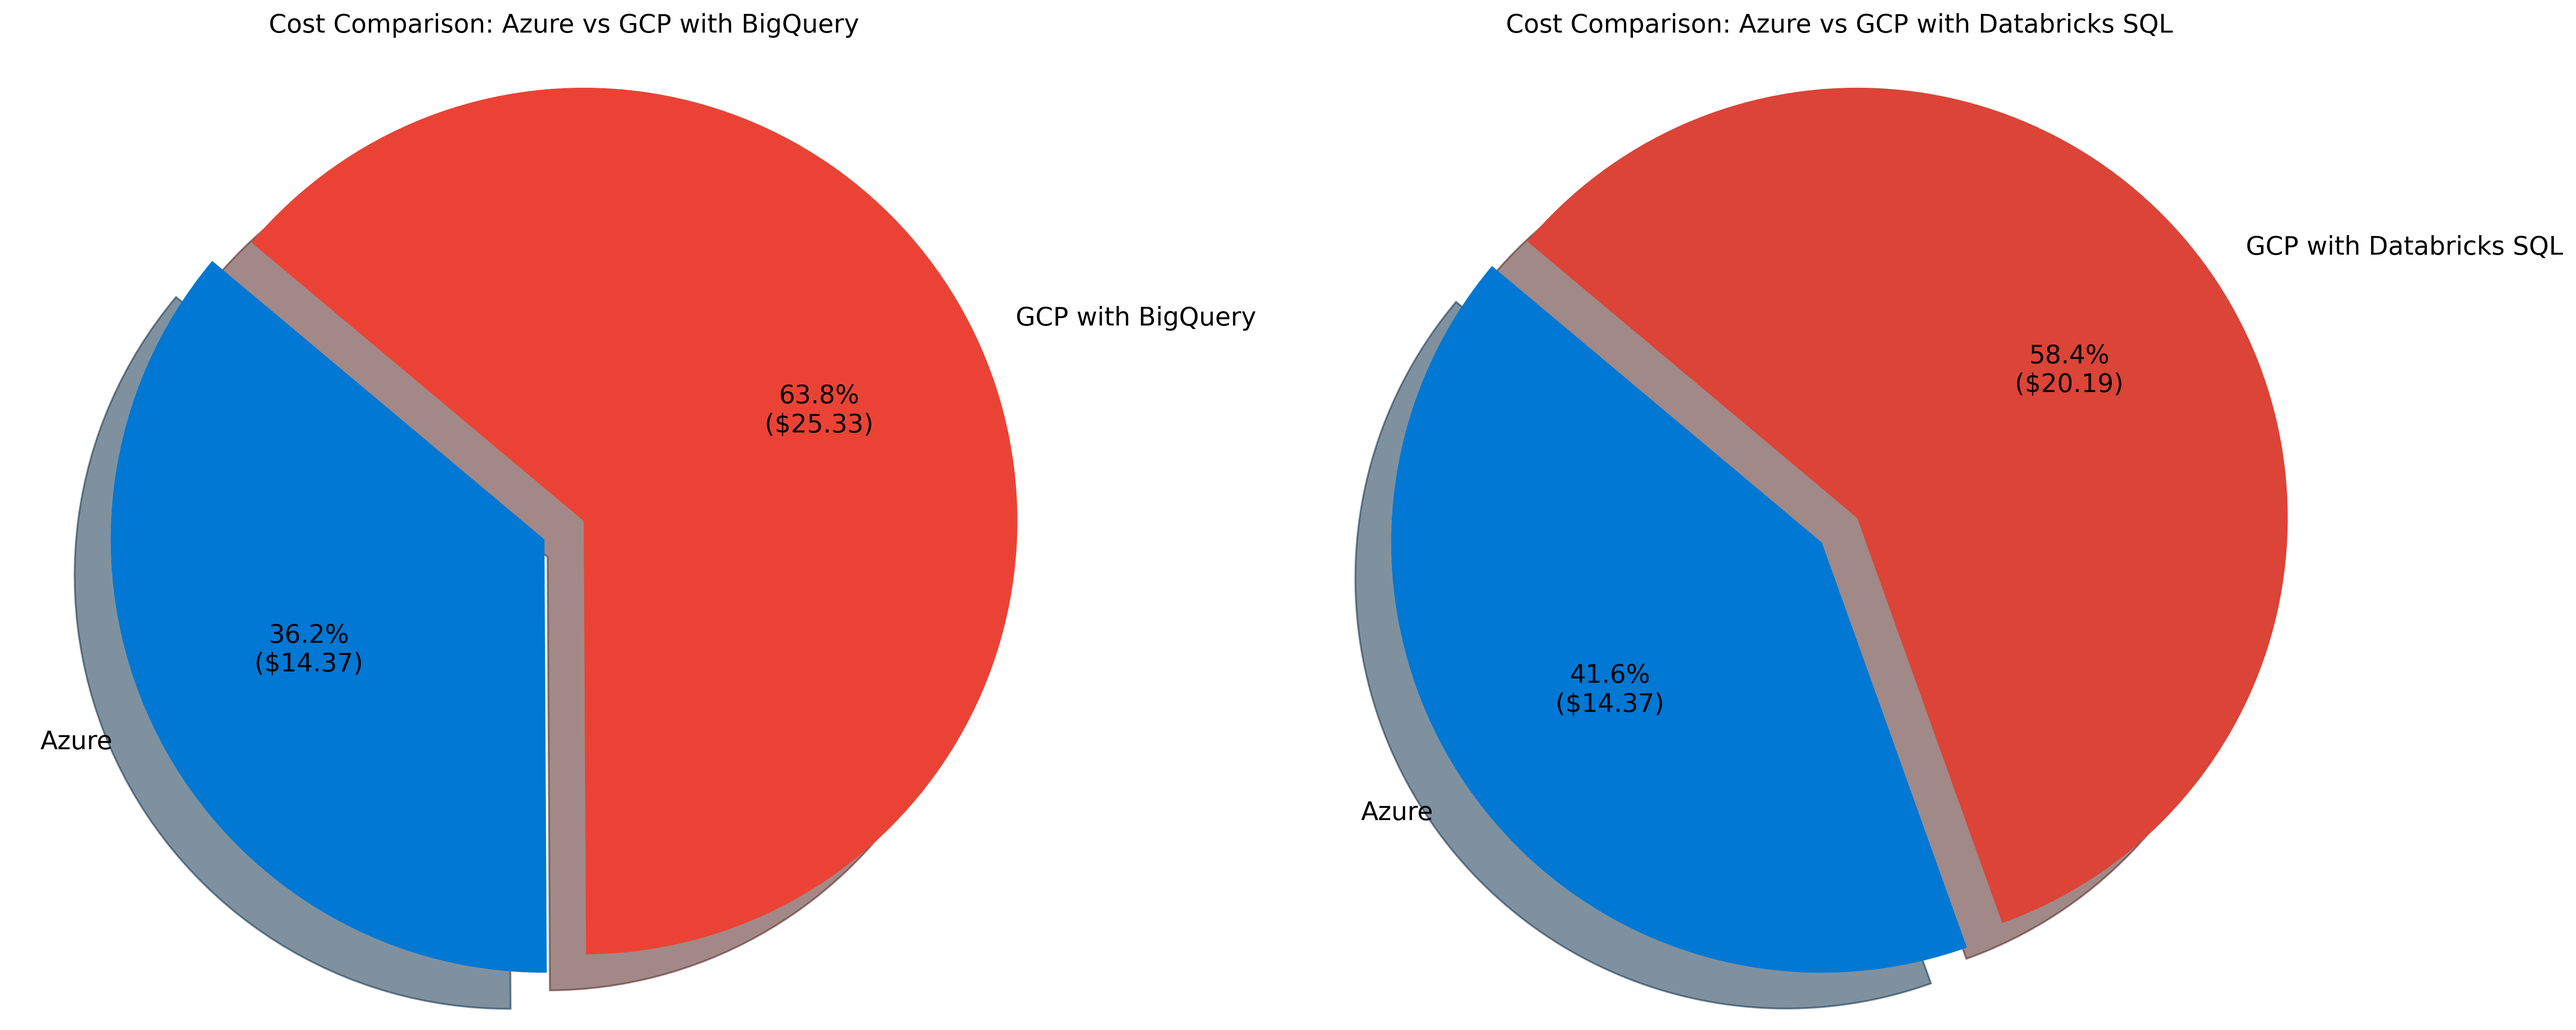
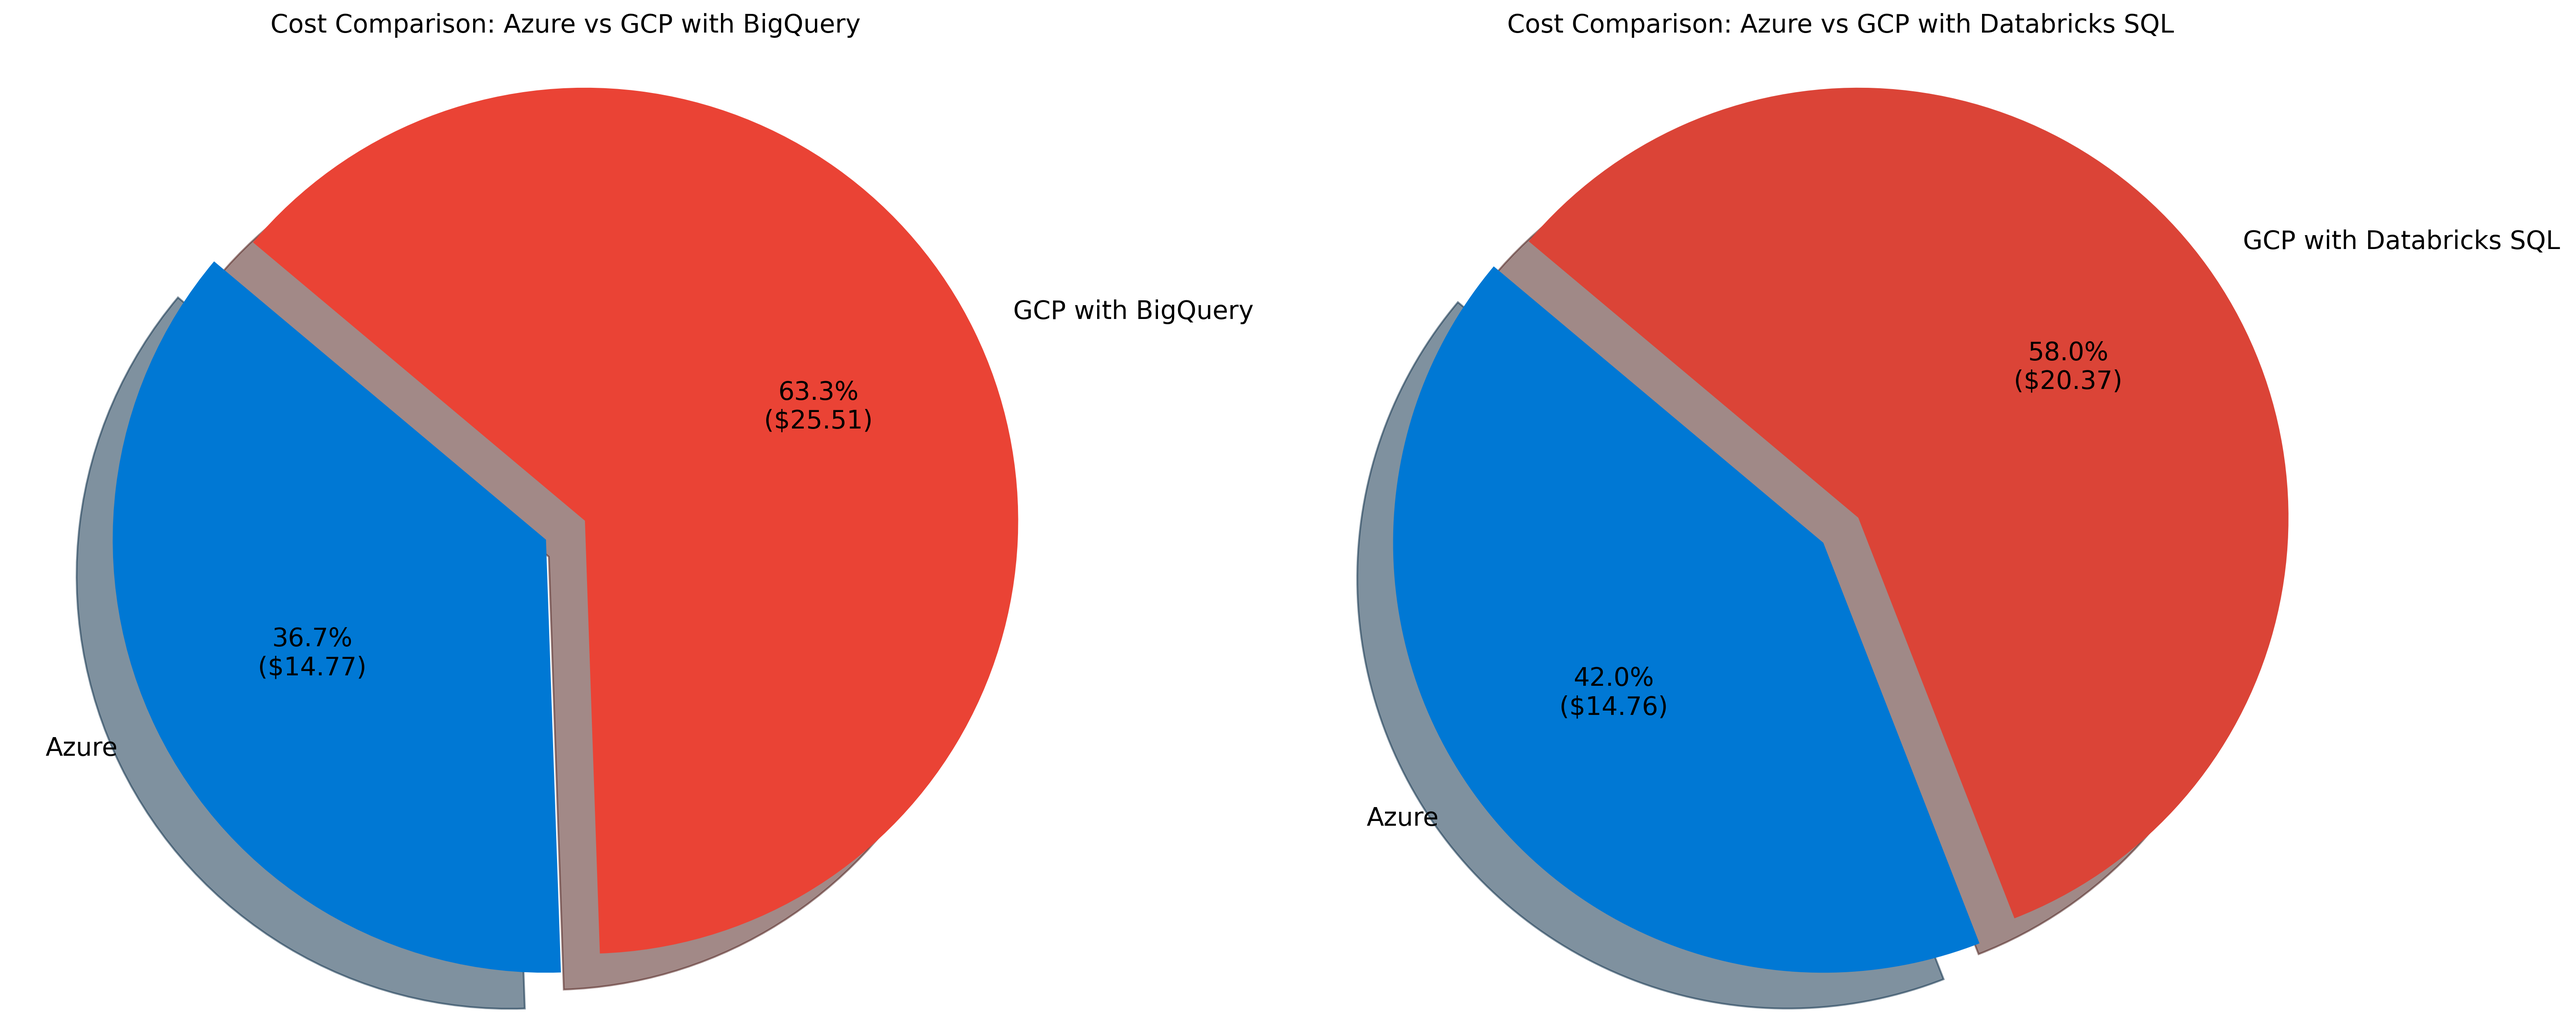
Update README.md and chart for new cost value

diff --git a/create_cost_performance_charts.py b/create_cost_performance_charts.py
@@ -7,14 +7,14 @@ os.makedirs('images/comparison', exist_ok=True)
 
 # Cost comparison data (in USD)
 # Azure costs
-azure_storage_cost = 1.39  # daily storage cost
+azure_storage_cost = 1.785  # daily storage cost (0.255 * 7 for 7-day time travel)
 azure_copy_data_cost = 2.66  # data transfer cost per run (formerly network)
 azure_compute_vm_cost = 1.88  # VM instance cost per run
 azure_compute_databricks_cost = 11.10  # Databricks cluster cost per run
 azure_transform_cost = 2.13  # Databricks SQL Warehouse cost per run
 
 # GCP costs
-gcp_storage_cost = 0.67  # daily storage cost
+gcp_storage_cost = 0.85  # daily storage cost (0.57 + 0.28)
 gcp_copy_data_cost = 12.98  # data egress cost per run (formerly network)
 gcp_compute_vm_cost = 2.60  # VM instance cost per run
 gcp_compute_databricks_cost = 14.22  # Databricks cluster cost per run
@@ -22,9 +22,9 @@ gcp_transform_cost = 7.84  # BigQuery transform cost per run
 gcp_transform_databricks_cost = 2.7  # Databricks SQL Warehouse cost per run
 
 # Snowflake costs
-snowflake_storage_cost = 0.128  # daily snowflake storage cost
+snowflake_storage_cost = 1.011  # daily snowflake storage cost (0.57 + 0.441 for 7-day time travel)
 snowflake_egress_gcp_cost = 6.37  # egress copy from GCP cost per run
-snowflake_transform_cost = 30.0  # transform data cost per run
+snowflake_transform_cost = 38.0  # transform data cost per run
 
 
 # Calculate total costs (including copy data/egress)
@@ -111,7 +111,7 @@ plt.pie(azure_sizes, labels=azure_labels, colors=azure_colors,
         autopct=make_autopct(azure_sizes),
         shadow=True, startangle=140, textprops={'fontsize': 14})
 plt.axis('equal')
-plt.title('Azure Cost Breakdown\nTotal: $19.16/run + $1.39/day', fontsize=14)
+plt.title('Azure Cost Breakdown\nTotal: $19.16/run + $1.785/day', fontsize=14)
 plt.tight_layout()
 plt.savefig('images/comparison/azure-cost-breakdown.png', dpi=300, bbox_inches='tight')
 plt.close()
@@ -131,7 +131,7 @@ plt.pie(gcp_bigquery_sizes, labels=gcp_bigquery_labels, colors=gcp_bigquery_colo
         autopct=make_autopct(gcp_bigquery_sizes),
         shadow=True, startangle=140, textprops={'fontsize': 12})
 plt.axis('equal')
-plt.title('GCP Cost Breakdown with BigQuery\nTotal: $38.31/run + $0.67/day', fontsize=14)
+plt.title('GCP Cost Breakdown with BigQuery\nTotal: $38.31/run + $0.85/day', fontsize=14)
 
 # Second subplot - GCP with Databricks SQL Warehouse
 plt.subplot(1, 2, 2)
@@ -145,7 +145,7 @@ plt.pie(gcp_databricks_sizes, labels=gcp_databricks_labels, colors=gcp_databrick
         autopct=make_autopct(gcp_databricks_sizes),
         shadow=True, startangle=140, textprops={'fontsize': 12})
 plt.axis('equal')
-plt.title('GCP Cost Breakdown with Databricks SQL\nTotal: $33.17/run + $0.67/day', fontsize=14)
+plt.title('GCP Cost Breakdown with Databricks SQL\nTotal: $33.17/run + $0.85/day', fontsize=14)
 
 plt.tight_layout()
 plt.savefig('images/comparison/gcp-cost-breakdown.png', dpi=300, bbox_inches='tight')

diff --git a/README.md b/README.md
@@ -206,12 +206,12 @@ This project includes utilities to synchronize notebooks and SQL files from your
 
 - Sync Jupyter notebooks to Databricks:
   ```bash
-  ./sync_notebook.sh Workspace/CarsProject/jupyter-notebook/LoadDataYellowTaxi.ipynb /Users/me/LoadDataYellowTaxi
+  ./sync_notebook.sh Workspace/NYCTaxi/jupyter-notebook/LoadDataYellowTaxi.ipynb /Users/me/LoadDataYellowTaxi
   ```
 
 - Sync SQL transformation files to Databricks:
   ```bash
-  ./sync_sql.sh Workspace/CarsProject/sql/transform /Users/me/sql/transform
+  ./sync_sql.sh Workspace/NYCTaxi/sql/transform /Users/me/sql/transform
   ```
 
 ## Dataset Statistics
@@ -274,7 +274,7 @@ The project processes a massive volume of NYC Taxi data:
 ```mermaid
 %%{init: {'theme': 'base', 'themeVariables': { 'pie1': '#ff9900', 'pie2': '#1155cc', 'pie3': '#38761d'}}}%%
 pie
-    title Azure Storage Distribution (GiB)
+    title Azure Storage Distribution (GiB) - $1.785/day
     "Raw" : 223.13
     "Staging" : 36.53
     "Transform" : 131.07
@@ -283,7 +283,7 @@ pie
 ```mermaid
 %%{init: {'theme': 'base', 'themeVariables': { 'pie1': '#ff9900', 'pie2': '#1155cc', 'pie3': '#38761d'}}}%%
 pie
-    title GCP Storage Distribution (GiB)
+    title GCP Storage Distribution (GiB) - $0.85/day
     "Raw" : 223.13
     "Staging" : 37.08
     "Transform" : 62.04
@@ -292,7 +292,7 @@ pie
 ```mermaid
 %%{init: {'theme': 'base', 'themeVariables': { 'pie1': '#ff9900', 'pie2': '#1155cc', 'pie3': '#38761d'}}}%%
 pie
-    title Snowflake (GCP) Storage Distribution (GiB)
+    title Snowflake (GCP) Storage Distribution (GiB) - $1.011/day
     "Raw" : 223.13
     "Staging" : 37.08
     "Transform" : 97
@@ -346,26 +346,26 @@ We tracked the costs associated with running our data pipeline across both cloud
 
 | Cloud Provider | Resource Type | Operation | Service | Cost (USD) |
 |:--------------:|:-------------:|:---------:|:-------:|:----------:|
-| **Azure** | **Storage** | Daily Storage | Azure Data Lake | Updating |
-| | **Copy Data** | Data Transfer | Azure Data Factory | $2.66/run |
-| | **Compute** | Convert CSV to Parquet | VM Instance | $1.88/run |
-| | | | Databricks Cluster Spark Computing | $11.10/run |
-| | | Transform Data | Databricks SQL Warehouse | $2.13/run |
-| | **TOTAL** | | | **$19.16/run** + $1.39/day |
+| **Azure** | **Storage** | Daily Storage | Azure Storage v2 | **$1.785** (**$0.255** * 7) /day |
+| | **Copy Data** | Data Transfer | Azure Data Factory | **$2.66/run** |
+| | **Compute** | Convert CSV to Parquet | VM Instance | **$1.88/run** |
+| | | | Databricks Cluster Spark Computing | **$11.10/run** |
+| | | Transform Data | Databricks SQL Warehouse | **$2.13/run** |
+| | **TOTAL** | | | **$19.16/run** + **$1.785/day** |
 |||||
-| **GCP** | **Storage** | Daily Storage | GCS + BigQuery | Updating |
-| | **Copy Data** | Data Egress | Storage Transfer | $12.98/run |
-| | **Compute** | Convert CSV to Parquet | VM Instance | $2.60/run |
-| | | | Databricks Cluster Spark Computing | $14.22/run |
-| | | Transform Data (Option 1) | BigQuery | $7.84/run |
-| | | Transform Data (Option 2) | Databricks SQL Warehouse | $2.70/run |
-| | **TOTAL (with BigQuery)** | | | **$38.31/run** + $0.67/day |
-| | **TOTAL (with Databricks SQL)** | | | **$33.17/run** + $0.67/day |
+| **GCP** | **Storage** | Daily Storage | GCS + BigQuery | **$0.85** (**$0.57** + **$0.28**)/day |
+| | **Copy Data** | Data Egress | Storage Transfer | **$12.98/run** |
+| | **Compute** | Convert CSV to Parquet | VM Instance | **$2.60/run** |
+| | | | Databricks Cluster Spark Computing | **$14.22/run** |
+| | | Transform Data (Option 1) | BigQuery | **$7.84/run** |
+| | | Transform Data (Option 2) | Databricks SQL Warehouse | **$2.70/run** |
+| | **TOTAL (with BigQuery)** | | | **$38.31/run** + **$0.85/day** |
+| | **TOTAL (with Databricks SQL)** | | | **$33.17/run** + **$0.85/day** |
 |||||
-| **Snowflake** | **Storage** | Daily Storage | GCS + Snowflake | Updating |
-| | **Copy Data** | Egress Copy from GCP | Snowflake (AWS) | $6.37/run |
-| | **Compute** | Transform Data | Snowflake | $38.00/run |
-| | **TOTAL** | | | **$44.37/run** + Storage Cost Per Day |
+| **Snowflake** | **Storage** | Daily Storage | GCS + Snowflake | **$1.011** (**$0.57** + **$0.441**)/day |
+| | **Copy Data** | Egress Copy from GCP | Snowflake (AWS) | **$6.37/run** |
+| | **Compute** | Transform Data | Snowflake | **$38.00/run** |
+| | **TOTAL** | | | **$44.37/run** + **$1.011/day** |
 
 ### Key Cost Insights
 
@@ -376,8 +376,10 @@ We tracked the costs associated with running our data pipeline across both cloud
   - **Snowflake** costs **$44.37/run** (plus daily storage)
 
 - **Storage Cost Comparison**: 
-  - Azure storage costs ($1.39/day) are approximately twice as expensive as GCP storage ($0.67/day) for similar workloads and data volumes
-  - Snowflake GCP charges $20/TB/month, with our dataset (silver + gold) taking 97GB resulting in a storage cost of $1.94/month (approximately $0.063/day)
+  - GCP storage cost breakdown: GCS ($0.57/day) + BigQuery ($0.28/day) = $0.85/day
+  - **Note on time-travel features**: GCP storage and Bigquery costs include time-travel functionality (7-day retention period), preventing immediate deletion of objects even after bucket recreation. 
+  Azure storage costs we have disabled time-travel and soft-delete features, so it's should multiply by 7 for same reference.
+  - Snowflake GCP charges $20/TB/month, with our dataset (silver + gold) taking 97GB resulting in a storage cost of $1.94/month (approximately $0.063/day => $0.441 for 7-days time travel)
   - **Time-travel feature impact**: Storage costs are affected by time-travel retention periods, which vary by platform:
     - Azure and GCP have a default time-travel retention of 7 days
     - Snowflake Standard has a default time-travel retention of 1 day
@@ -435,14 +437,14 @@ We experimented with different transformation approaches before finding the opti
 | Cloud Provider | Transform Method | Execution Time | Details |
 |:--------------:|:----------------:|:--------------:|:--------|
 | **Azure** | **Raw Spark (Original Workshop)** | Too long to complete | Initial approach using raw Spark to process parquet files directly |
-| | **Hybrid Spark** ([AzureTransformDataYellowTaxiSpark.ipynb](Workspace/CarsProject/jupyter-notebook/azure/transform-data/AzureTransformDataYellowTaxiSpark.ipynb)) | >4 hours | Second approach with two phases: |
+| | **Hybrid Spark** ([AzureTransformDataYellowTaxiSpark.ipynb](Workspace/NYCTaxi/jupyter-notebook/azure/transform-data/AzureTransformDataYellowTaxiSpark.ipynb)) | >4 hours | Second approach with two phases: |
 | | | ~2.1 hours | Parallel JDBC read using pickup_datetime partitioning to prevent data skew |
 | | | ~2.3 hours | Spark-based transformation and storage write |
 | | **Databricks SQL Datawarehouse** | **11min 28s** | Final approach running SQL transformations directly in Databricks SQL |
 | | **Cloud SQL Warehouse (Azure Synapse)** | **`N/A`** | Unable to run due to compute capacity exceed |
 |||||
 | **GCP** | **Raw Spark (Original Workshop)** | Too long to complete | Initial approach using raw Spark to process parquet files directly |
-| | **Hybrid Spark** ([GCPTransformDataYellowTaxiSpark.ipynb](Workspace/CarsProject/jupyter-notebook/gcp/transform-data/GCPTransformDataYellowTaxiSpark.ipynb)) | 3.5 hours | Second approach with two phases: |
+| | **Hybrid Spark** ([GCPTransformDataYellowTaxiSpark.ipynb](Workspace/NYCTaxi/jupyter-notebook/gcp/transform-data/GCPTransformDataYellowTaxiSpark.ipynb)) | 3.5 hours | Second approach with two phases: |
 | | | 2.4 hours | Parallel JDBC read using pickup_datetime partitioning to prevent data skew |
 | | | 1.1 hours | Spark-based transformation and storage write |
 | | **Databricks SQL Datawarehouse** | **14min 55s** | Intermediate approach using Databricks SQL |
@@ -458,7 +460,7 @@ We experimented with different transformation approaches before finding the opti
 
 ### 🚀 SQL Query Optimization Results (Azure)
 
-We conducted performance testing on complex join operations between taxi trip data and reference tables using different optimization techniques on Azure Databricks. The benchmark query ([1-join-yellow-taxi.sql](Workspace/CarsProject/sql/benchmark/1-join-yellow-taxi.sql)) analyzes trip patterns and payment distributions across different NYC taxi zones.
+We conducted performance testing on complex join operations between taxi trip data and reference tables using different optimization techniques on Azure Databricks. The benchmark query ([1-join-yellow-taxi.sql](Workspace/NYCTaxi/sql/benchmark/1-join-yellow-taxi.sql)) analyzes trip patterns and payment distributions across different NYC taxi zones.
 
 #### Optimization Techniques Tested
 
@@ -568,7 +570,7 @@ The project follows a modular structure to separate different stages of the data
     ├── 01-General/
     │   └── 2-CommonFunctions.ipynb
     │
-    └── CarsProject/
+    └── NYCTaxi/
         ├── jupyter-notebook/
         │   ├── azure/
         │   │   ├── analytics/
